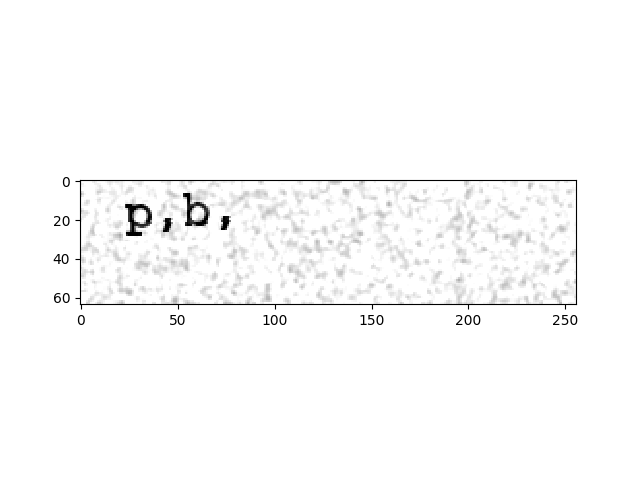
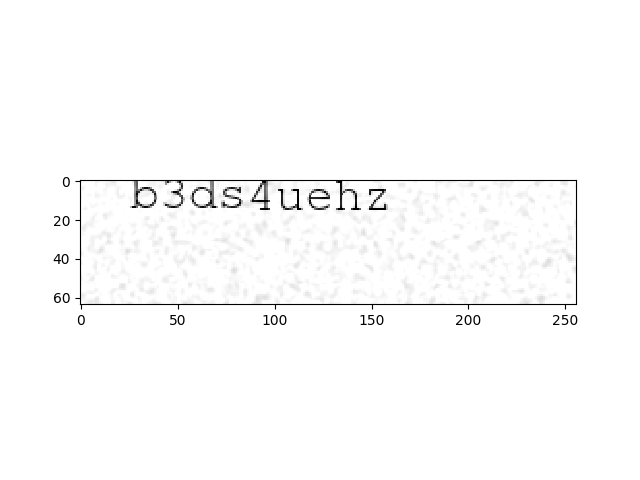
-

diff --git a/algs/ocr/keras/ker_ocr4.py b/algs/ocr/keras/ker_ocr4.py
@@ -21,11 +21,15 @@ def ctc_lambda_func(args):
     y_pred = y_pred[:, 2:, :]
     return K.ctc_batch_cost(labels, y_pred, input_length, label_length)
 
-def get_model(img_w,img_h,minibatch_size,pool_size):
+def train():
+    img_w = 256
+    img_h = 64
     conv_filters = 20
     kernel_size = (2, 2)
+    pool_size = 3
     time_dense_size = 32
     rnn_size = 256
+    minibatch_size = 10
 
     input_shape = (img_w, img_h, 1)
     
@@ -103,22 +107,7 @@ def get_model(img_w,img_h,minibatch_size,pool_size):
                           label_length], outputs=loss_out)
 
     model.compile(loss={'ctc': lambda y_true, y_pred: y_pred}, optimizer=sgd)
-    return model
-    
-
-def train():
-    pool_size = 3
-    img_w = 256
-    img_h = 64
-    minibatch_size = 10
-    img_gen = util4.TextImageGenerator(minibatch_size=minibatch_size,
-                                      img_w=img_w,
-                                      img_h=img_h,
-                                      downsample_factor=(pool_size ** 2),
-                                      absolute_max_string_len=12
-    )
-    model = get_model(img_w,img_h,minibatch_size,pool_size)
-    mfile = "/tmp/ocr4.h5"
+    mfile = "ocr4.h5"
     if os.path.isfile(mfile): model.load_weights(mfile)
 
     model.fit_generator(generator=img_gen.next_train(),

diff --git a/algs/ocr/keras/bkp1/test4.md b/algs/ocr/keras/bkp1/test4.md
@@ -1,27 +1,100 @@
 
-
 ```python
-import util
-img_gen = util.TextImageGenerator(minibatch_size=1,
-                                  img_w=256,
-                                  img_h=64,
-                                  downsample_factor=4,
-				  absolute_max_string_len=12)
+import ker_ocr4
+mfile = '/home/burak/Documents/general/ocr4.h5'
 
+pool_size = 3
+img_w = 256
+img_h = 64
+minibatch_size = 10
+model = ker_ocr4.get_model(img_w,img_h,minibatch_size,pool_size)
+model.load_weights(mfile)
+```
+
+```text
+____________________________________________________________________________________________________
+Layer (type)                     Output Shape          Param #     Connected to                     
+====================================================================================================
+the_input (InputLayer)           (None, 256, 64, 1)    0                                            
+____________________________________________________________________________________________________
+conv1 (Conv2D)                   (None, 256, 64, 20)   100         the_input[0][0]                  
+____________________________________________________________________________________________________
+max1 (MaxPooling2D)              (None, 85, 21, 20)    0           conv1[0][0]                      
+____________________________________________________________________________________________________
+conv2 (Conv2D)                   (None, 85, 21, 20)    1620        max1[0][0]                       
+____________________________________________________________________________________________________
+max2 (MaxPooling2D)              (None, 28, 7, 20)     0           conv2[0][0]                      
+____________________________________________________________________________________________________
+reshape (Reshape)                (None, 28, 140)       0           max2[0][0]                       
+____________________________________________________________________________________________________
+dense1 (Dense)                   (None, 28, 32)        4512        reshape[0][0]                    
+____________________________________________________________________________________________________
+gru1 (GRU)                       (None, 28, 256)       221952      dense1[0][0]                     
+____________________________________________________________________________________________________
+gru1_b (GRU)                     (None, 28, 256)       221952      dense1[0][0]                     
+____________________________________________________________________________________________________
+add_1 (Add)                      (None, 28, 256)       0           gru1[0][0]                       
+                                                                   gru1_b[0][0]                     
+____________________________________________________________________________________________________
+gru2 (GRU)                       (None, 28, 256)       393984      add_1[0][0]                      
+____________________________________________________________________________________________________
+gru2_b (GRU)                     (None, 28, 256)       393984      add_1[0][0]                      
+____________________________________________________________________________________________________
+concatenate_1 (Concatenate)      (None, 28, 512)       0           gru2[0][0]                       
+                                                                   gru2_b[0][0]                     
+____________________________________________________________________________________________________
+dense2 (Dense)                   (None, 28, 40)        20520       concatenate_1[0][0]              
+____________________________________________________________________________________________________
+softmax (Activation)             (None, 28, 40)        0           dense2[0][0]                     
+====================================================================================================
+Total params: 1,258,624
+Trainable params: 1,258,624
+Non-trainable params: 0
+____________________________________________________________________________________________________
 ```
 
 ```python
+import util4
+img_gen = util4.TextImageGenerator(minibatch_size=1,
+                                  img_w=img_w,
+                                  img_h=img_h,
+                                  downsample_factor=4,
+                                  absolute_max_string_len=12)
+
 for x in img_gen.next_train():
     print x[0]['source_str'],
-    img = x[0]['the_input'].reshape(256,64).T
+    img = x[0]['the_input'].reshape(img_w,img_h).T
     plt.imshow(img,cmap='gray',interpolation="none")
     plt.savefig('out1.png')    
     break
 ```
 
 ```text
-[u'p,b,']
+[u'5z1ls']
 ```
+
+```python
+print x[0]['the_input'].shape
+preds = model.predict(x[0]['the_input'], batch_size=1)
+```
+
+```text
+(1, 256, 64, 1)
+```
+
+
+
+
+
+
+
+
+
+
+
+
+
+
 
 
 
